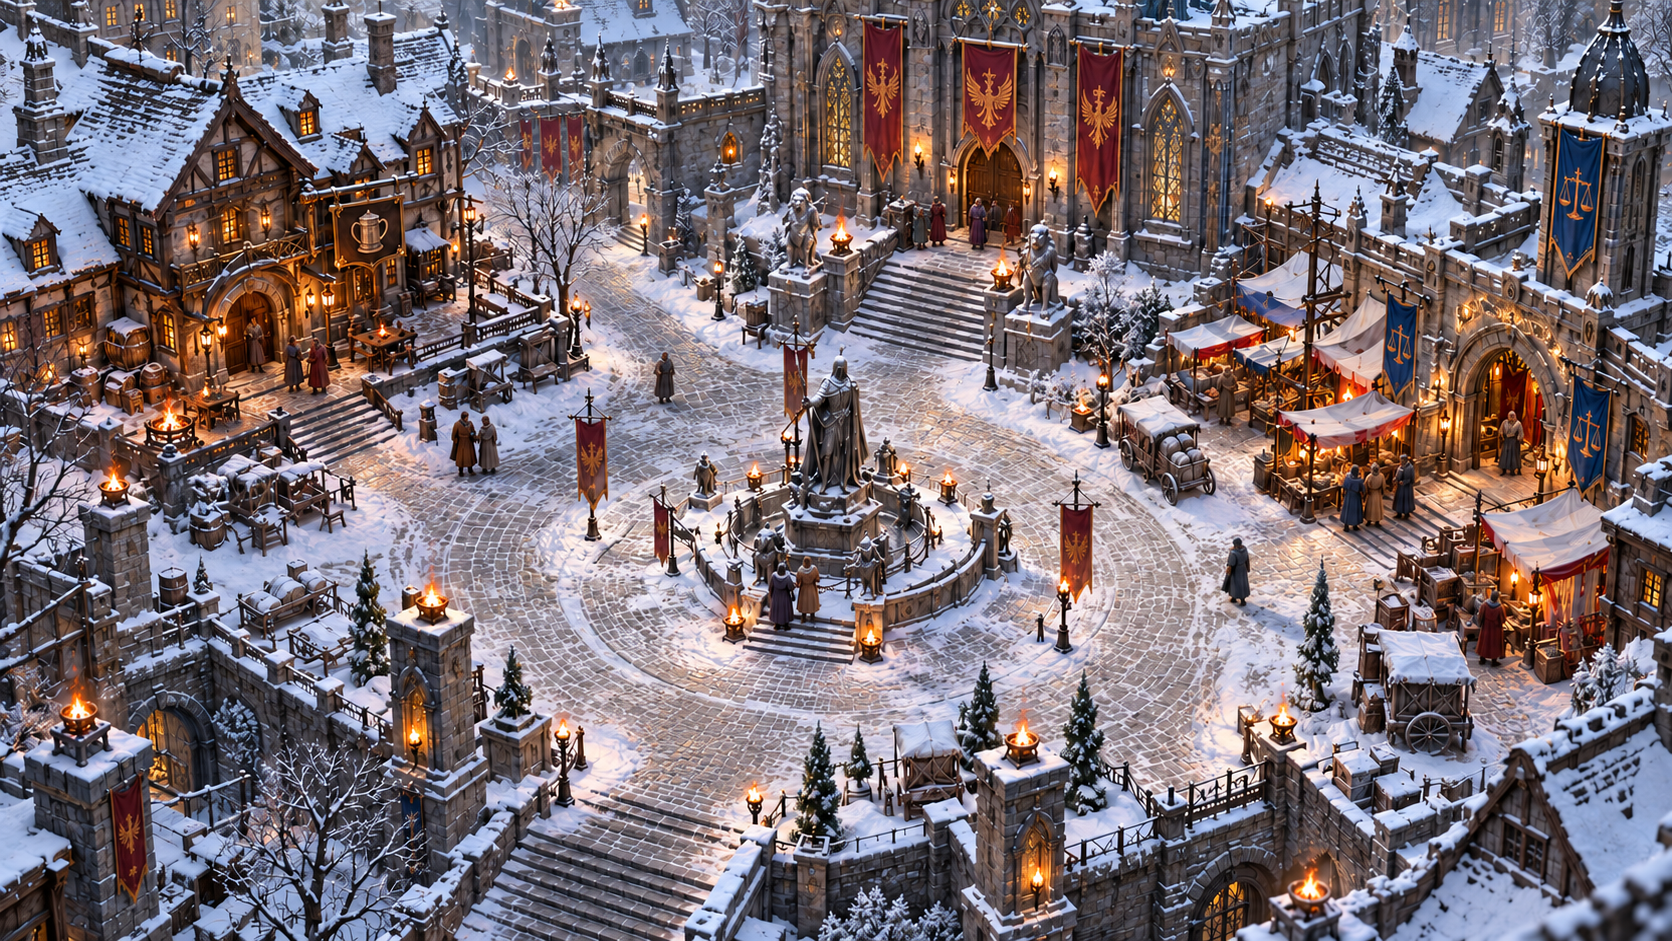
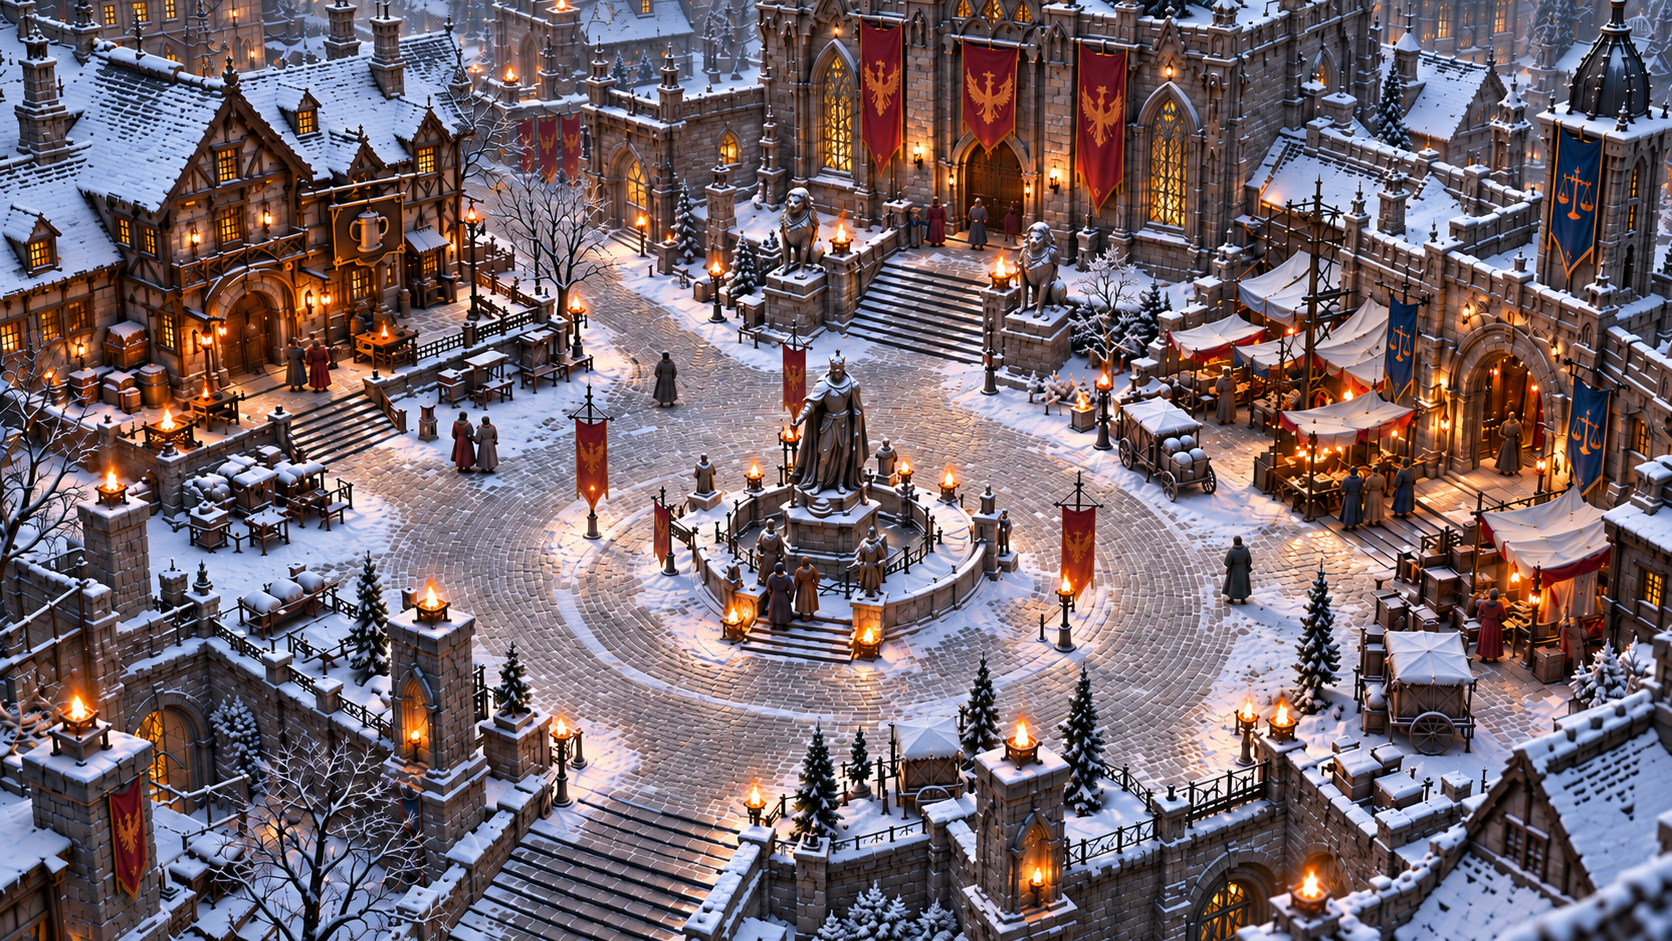
feat: add location backgrounds and dashboard navigation

diff --git a/frontend/src/pages/GamePage.tsx b/frontend/src/pages/GamePage.tsx
@@ -19,6 +19,28 @@ const locationFrames: Record<Location["type"], string> = {
     DANGEROUS: "/assets/game/location-hostile.png",
 };
 
+const locationBackgrounds: Record<string, string> = {
+    city_merch_guild: "/assets/game/location-merchant-guild.png",
+    city_adv_guild: "/assets/game/location-adventurers-guild.png",
+    city_tavern: "/assets/game/location-north-hearth-tavern.png",
+    city_gates: "/assets/game/location-main-gates.png",
+    forest_edge: "/assets/game/location-forest-edge.png",
+    forest_goblin_camp: "/assets/game/location-goblin-camp.png",
+    forest_wolf_trail: "/assets/game/location-wolf-trail.png",
+    crypt_entrance: "/assets/game/location-crypt-entrance.png",
+    crypt_corridor: "/assets/game/location-crypt-corridor.png",
+    crypt_central: "/assets/game/location-crypt-central.png",
+    crypt_library: "/assets/game/location-crypt-library.png",
+    crypt_training: "/assets/game/location-crypt-training.png",
+    crypt_armory: "/assets/game/location-crypt-armory.png",
+    crypt_boss_room: "/assets/game/location-crypt-throne-room.png",
+};
+
+const zoneNameOverrides: Record<string, string> = {
+    "Зеленый лес": "Сумрачный лес",
+    "Зелёный лес": "Сумрачный лес",
+};
+
 const questSourceLabels: Record<QuestSource, string> = {
     MAIN_STORY: "Сюжетное задание",
     NPC: "Задание персонажа",
@@ -148,13 +170,22 @@ export default function GamePage() {
 
     const actionsDisabled = busyAction !== null || activeMonsterId !== null;
     const allows = (action: string) => location.availableActions.includes(action);
+    const locationBackground = locationBackgrounds[location.id] ?? "/assets/game/main-background.png";
+    const zoneName = zoneNameOverrides[location.zoneName] ?? location.zoneName;
 
     return (
-        <main className="game-dashboard">
+        <main className="game-dashboard" style={{ backgroundImage: `url("${locationBackground}")` }}>
             <div className="game-dashboard__veil" aria-hidden="true" />
 
             <section className="game-player" aria-label="Профиль персонажа">
                 <img src="/assets/game/player-panel.png" alt="" aria-hidden="true" />
+                <button
+                    className="game-player__avatar-button"
+                    type="button"
+                    aria-label="Открыть профиль персонажа"
+                    title="Профиль персонажа"
+                    onClick={() => navigate("/character")}
+                />
                 <div className="game-player__identity">
                     <strong>{player.playerName}</strong>
                     <span>Ур. {player.level}</span>
@@ -171,7 +202,7 @@ export default function GamePage() {
 
             <section className="game-location" aria-label="Текущая локация">
                 <img src={location.bossRoom ? "/assets/game/location-boss.png" : locationFrames[location.type]} alt="" aria-hidden="true" />
-                <strong className="game-location__biome">{location.zoneName}</strong>
+                <strong className="game-location__biome">{zoneName}</strong>
                 <span className="game-location__name">{location.name}</span>
             </section>
 

diff --git a/frontend/src/index.css b/frontend/src/index.css
@@ -912,6 +912,29 @@ button, a { -webkit-tap-highlight-color: transparent; }
     aspect-ratio: 1672 / 941;
 }
 
+.game-player__avatar-button {
+    position: absolute;
+    top: 14%;
+    left: 5%;
+    width: 35%;
+    height: 66%;
+    z-index: 2;
+    padding: 0;
+    cursor: pointer;
+    background: transparent;
+    border: 0;
+    border-radius: 50%;
+}
+
+.game-player__avatar-button:hover {
+    box-shadow: inset 0 0 1.2rem rgba(255, 75, 25, .16), 0 0 .65rem rgba(255, 54, 18, .18);
+}
+
+.game-player__avatar-button:focus-visible {
+    outline: .12rem solid #ffd18a;
+    outline-offset: -.22rem;
+}
+
 .game-player__identity {
     position: absolute;
     top: 25.5%;
